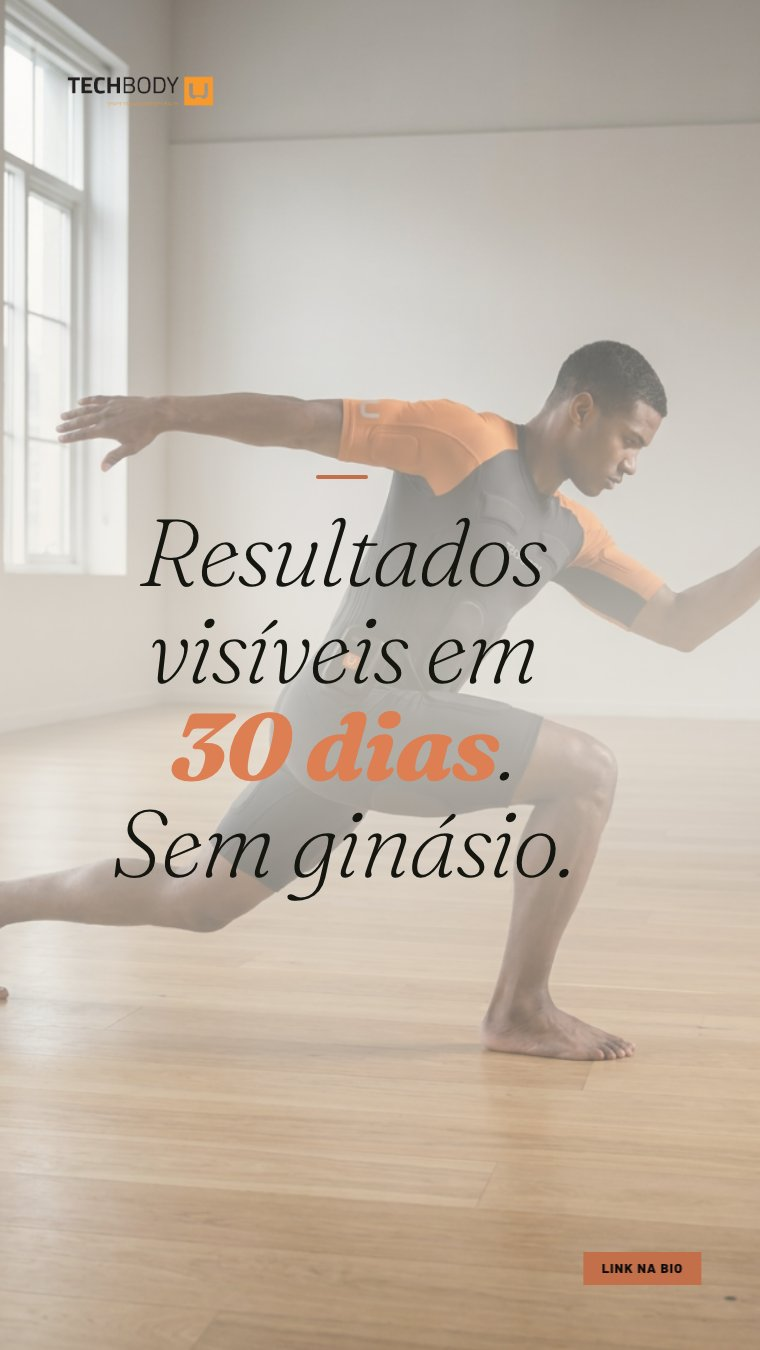
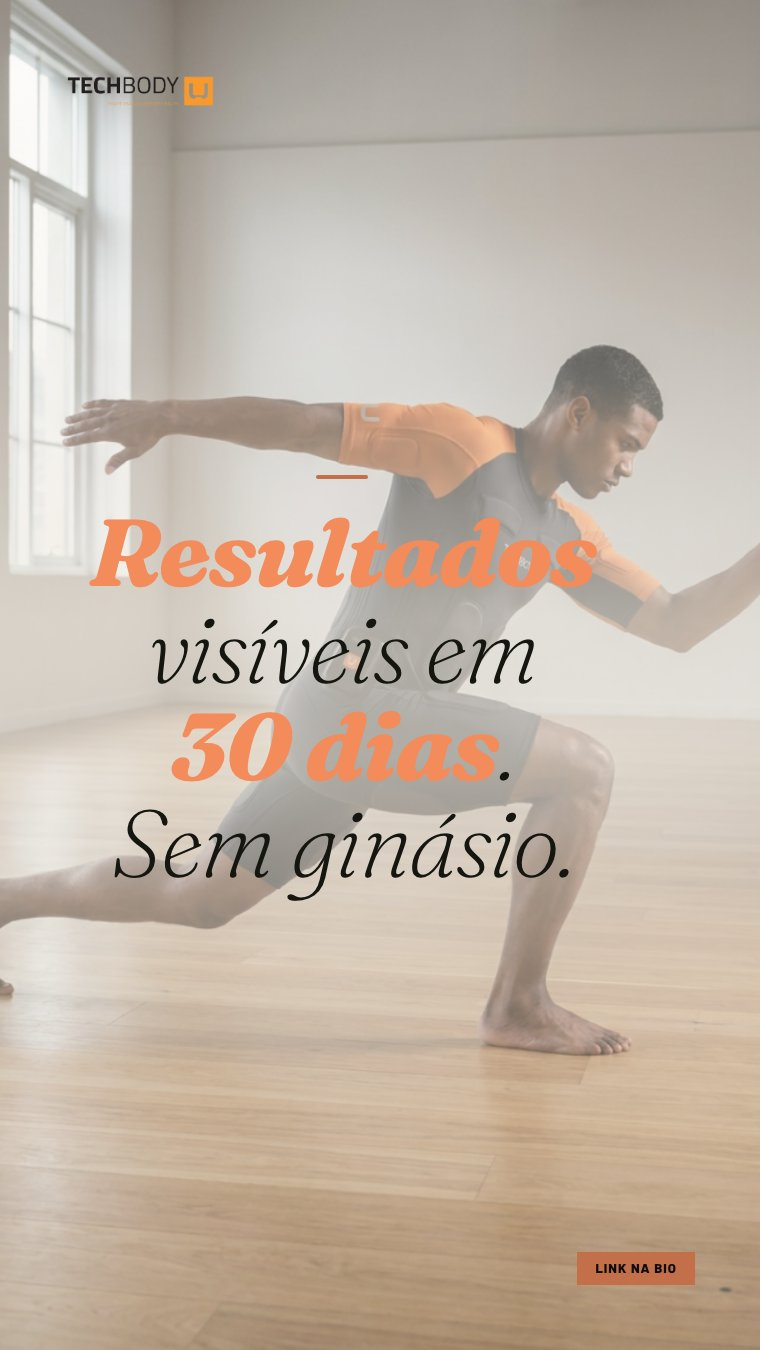
feat(stories): keywords laranja nas stories TB + TBU (Julho)
Adicionadas palavras-chave destacadas (<em>) nos h1s das stories.
Screenshots regenerados.

diff --git a/public/brands/techbody_u/output/2026-07/stories/s02-tecsuit-na-mala.html b/public/brands/techbody_u/output/2026-07/stories/s02-tecsuit-na-mala.html
@@ -247,7 +247,7 @@ h1 em, blockquote em { animation: fx-em 4s ease-in-out var(--fxc); }
   <div class="story-single__top">
     <span class="brand"><img src="../../../assets/logos/magnific__other-black-text-on-a-white-background-with-smalle__28184.png" alt="TechBody U" style="display:block;height:clamp(34px,4.6vw,58px);width:auto;"/></span>
   </div>
-  <div class="story-single__body"><h1>Resultados visíveis em <em>30 dias</em>. Sem ginásio.</h1></div>
+  <div class="story-single__body"><h1><em>Resultados</em> visíveis em <em>30 dias</em>. Sem ginásio.</h1></div>
   <div class="story-single__bottom"><span></span><span class="story-single__cta">Link na bio</span></div>
 </section>
 </body>

diff --git a/public/brands/techbody_u/output/2026-07/stories/s03-antes-da-praia.html b/public/brands/techbody_u/output/2026-07/stories/s03-antes-da-praia.html
@@ -247,7 +247,7 @@ h1 em, blockquote em { animation: fx-em 4s ease-in-out var(--fxc); }
   <div class="story-single__top">
     <span class="brand"><img src="../../../assets/logos/magnific__other-black-text-on-a-white-background-with-smalle__28184.png" alt="TechBody U" style="display:block;height:clamp(34px,4.6vw,58px);width:auto;"/></span>
   </div>
-  <div class="story-single__body"><h1>25 minutos antes da praia. <em>Feito.</em></h1></div>
+  <div class="story-single__body"><h1>25 minutos antes da <em>praia</em>. <em><em>Feito</em>.</em></h1></div>
   <div class="story-single__bottom"><span></span><span class="story-single__cta">Link na bio</span></div>
 </section>
 </body>

diff --git a/public/brands/techbody_u/output/2026-07/stories/s01-pontos-da-semana.html b/public/brands/techbody_u/output/2026-07/stories/s01-pontos-da-semana.html
@@ -247,7 +247,7 @@ h1 em, blockquote em { animation: fx-em 4s ease-in-out var(--fxc); }
   <div class="story-single__top">
     <span class="brand"><img src="../../../assets/logos/magnific__other-black-text-on-a-white-background-with-smalle__28184.png" alt="TechBody U" style="display:block;height:clamp(34px,4.6vw,58px);width:auto;"/></span>
   </div>
-  <div class="story-single__body"><h1>Quantos <em>pontos</em> vai somar esta semana?</h1></div>
+  <div class="story-single__body"><h1>Quantos <em>pontos</em> vai somar esta <em>semana</em>?</h1></div>
   <div class="story-single__bottom"><span></span><span class="story-single__cta">Link na bio</span></div>
 </section>
 </body>

diff --git a/public/brands/techbody/output/2026-07/stories/s01-semana-completa.html b/public/brands/techbody/output/2026-07/stories/s01-semana-completa.html
@@ -246,7 +246,7 @@ h1 em, blockquote em { animation: fx-em 4s ease-in-out var(--fxc); }
   <div class="story-single__top">
     <span class="brand">TechBody</span>
   </div>
-  <div class="story-single__body"><div class="num">3×25</div><h1>minutos. Segunda, Quarta, Sexta.<br>A&nbsp;semana está&nbsp;feita.</h1></div>
+  <div class="story-single__body"><div class="num">3×25</div><h1>minutos. Segunda, Quarta, Sexta.<br>A&nbsp;<em>semana</em> está&nbsp;feita.</h1></div>
   <div class="story-single__bottom"><span></span><span class="story-single__cta">Link na bio</span></div>
 </section>
 </body>

diff --git a/public/brands/techbody/output/2026-07/stories/s02-regresso-ferias.html b/public/brands/techbody/output/2026-07/stories/s02-regresso-ferias.html
@@ -246,7 +246,7 @@ h1 em, blockquote em { animation: fx-em 4s ease-in-out var(--fxc); }
   <div class="story-single__top">
     <span class="brand">TechBody</span>
   </div>
-  <div class="story-single__body"><h1>As&nbsp;férias acabaram.<br>O&nbsp;corpo pede recomeço.<br>Com&nbsp;acompanhamento.</h1></div>
+  <div class="story-single__body"><h1>As&nbsp;<em>férias</em> acabaram.<br>O&nbsp;corpo pede recomeço.<br>Com&nbsp;acompanhamento.</h1></div>
   <div class="story-single__bottom"><span></span><span class="story-single__cta">Link na bio</span></div>
 </section>
 </body>

diff --git a/public/brands/techbody/output/2026-07/stories/s04-ritmo-verao.html b/public/brands/techbody/output/2026-07/stories/s04-ritmo-verao.html
@@ -246,7 +246,7 @@ h1 em, blockquote em { animation: fx-em 4s ease-in-out var(--fxc); }
   <div class="story-single__top">
     <span class="brand">TechBody</span>
   </div>
-  <div class="story-single__body"><h1>Resultados não&nbsp;tiram férias.<br>25&nbsp;minutos mantêm o&nbsp;ritmo.</h1></div>
+  <div class="story-single__body"><h1><em>Resultados</em> não&nbsp;tiram férias.<br>25&nbsp;minutos mantêm o&nbsp;<em>ritmo</em>.</h1></div>
   <div class="story-single__bottom"><span></span><span class="story-single__cta">Link na bio</span></div>
 </section>
 </body>

diff --git a/public/brands/techbody/output/2026-07/stories/s03-agosto-sessao.html b/public/brands/techbody/output/2026-07/stories/s03-agosto-sessao.html
@@ -246,7 +246,7 @@ h1 em, blockquote em { animation: fx-em 4s ease-in-out var(--fxc); }
   <div class="story-single__top">
     <span class="brand">TechBody</span>
   </div>
-  <div class="story-single__body"><h1>Agosto chegou.<br>A&nbsp;sua&nbsp;sessão&nbsp;também.</h1></div>
+  <div class="story-single__body"><h1><em>Agosto</em> chegou.<br>A&nbsp;sua&nbsp;<em>sessão</em>&nbsp;também.</h1></div>
   <div class="story-single__bottom"><span></span><span class="story-single__cta">Link na bio</span></div>
 </section>
 </body>

diff --git a/public/aprovacao-luiz-202605/js/config.js b/public/aprovacao-luiz-202605/js/config.js
@@ -35,4 +35,4 @@ export const AUTH_ENABLED = false;
 // Versão do app. Comparada periodicamente contra /version.txt no servidor.
 // Se divergir, o badge muda para "🔄 Nova versão" e o user sabe que está
 // numa sessão desactualizada. Bump em cada deploy importante.
-export const APP_VERSION = "20260630-0150";
+export const APP_VERSION = "20260630-0158";

diff --git a/public/aprovacao-tb-202605/js/config.js b/public/aprovacao-tb-202605/js/config.js
@@ -35,4 +35,4 @@ export const AUTH_ENABLED = false;
 // Versão do app. Comparada periodicamente contra /version.txt no servidor.
 // Se divergir, o badge muda para "🔄 Nova versão" e o user sabe que está
 // numa sessão desactualizada. Bump em cada deploy importante.
-export const APP_VERSION = "20260630-0150";
+export const APP_VERSION = "20260630-0158";

diff --git a/public/aprovacao-luiz-202605/sw.js b/public/aprovacao-luiz-202605/sw.js
@@ -12,7 +12,7 @@
 // Resultado: a partir da segunda visita o user nunca mais vê versão
 // antiga, mesmo sem clear cache manual.
 
-const CACHE_NAME = 'pf-aprovacao-fallback-v129';
+const CACHE_NAME = 'pf-aprovacao-fallback-v130';
 
 // Activa imediatamente sem esperar que tabs abertas fechem.
 self.addEventListener('install', (event) => {

diff --git a/public/aprovacao-tb-202605/sw.js b/public/aprovacao-tb-202605/sw.js
@@ -12,7 +12,7 @@
 // Resultado: a partir da segunda visita o user nunca mais vê versão
 // antiga, mesmo sem clear cache manual.
 
-const CACHE_NAME = 'pf-aprovacao-fallback-v124';
+const CACHE_NAME = 'pf-aprovacao-fallback-v125';
 
 // Activa imediatamente sem esperar que tabs abertas fechem.
 self.addEventListener('install', (event) => {

diff --git a/public/aprovacao-luiz-202605/index.html b/public/aprovacao-luiz-202605/index.html
@@ -3,7 +3,7 @@
 <head>
 <meta charset="utf-8" />
 <meta name="viewport" content="20260629-1343" />
-<meta name="app-version" content="20260630-0150" />
+<meta name="app-version" content="20260630-0158" />
 <title>Aprovação · Conteúdo</title>
 
 <script>
